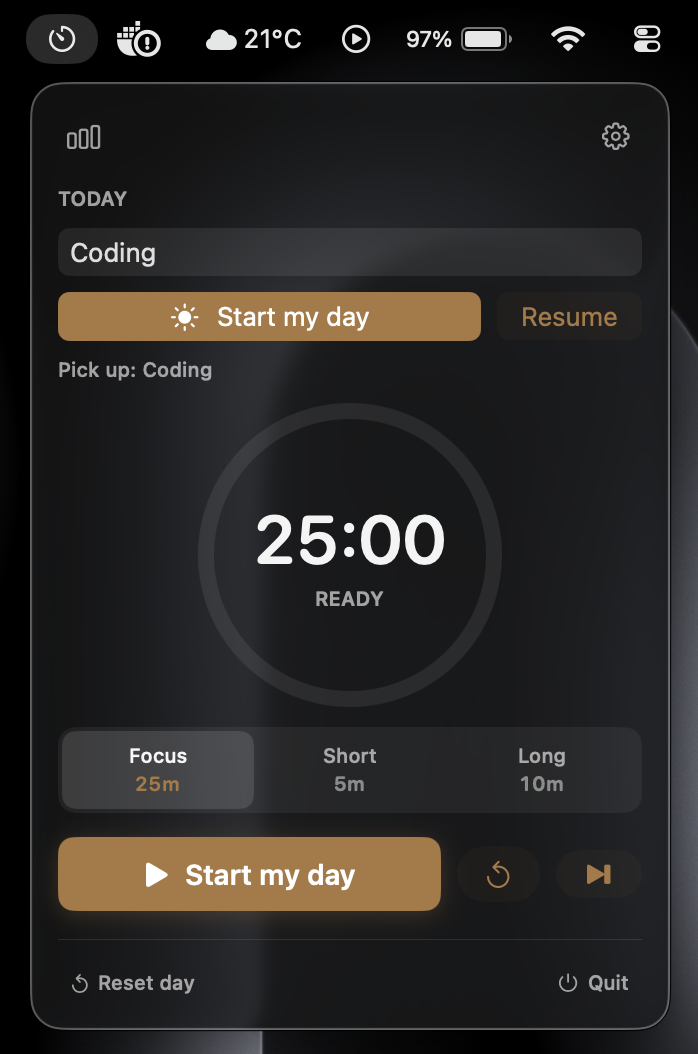
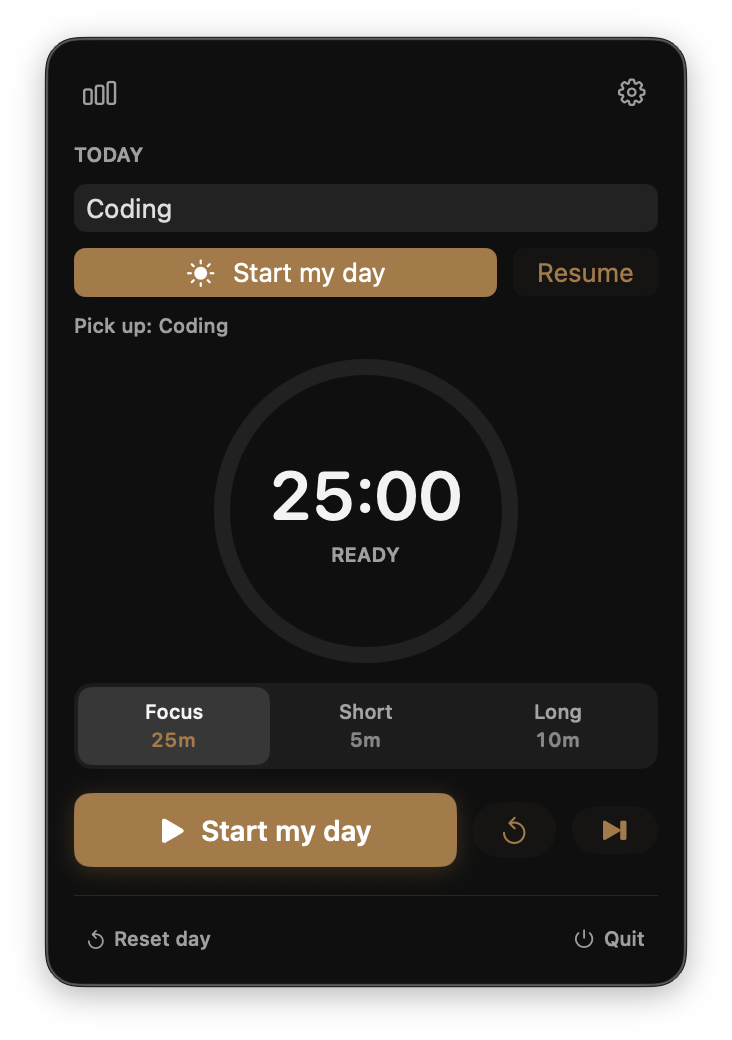
Add stats and settings screenshots, point Install at Releases

diff --git a/README.md b/README.md
@@ -5,7 +5,9 @@ A small Pomodoro app that lives in your Mac menu bar.
 I built Breaks because every other timer either nagged me too much, hid in a Dock icon I never wanted, or treated breaks as an afterthought. This one is the opposite. It's quiet, it remembers what you were focused on, and it actually cares whether the break was any good.
 
 <p align="center">
-  <img src="docs/screenshot-timer.png" alt="Breaks popover open from the menu bar" width="420">
+  <img src="docs/screenshot-timer.png" alt="Timer popover" width="280">
+  <img src="docs/screenshot-stats.png" alt="Streaks and stats" width="280">
+  <img src="docs/screenshot-settings.png" alt="Settings panel" width="280">
 </p>
 
 ![Platform](https://img.shields.io/badge/platform-macOS%2013%2B-blue)
@@ -23,9 +25,17 @@ I built Breaks because every other timer either nagged me too much, hid in a Doc
 - Survives sleep. Close the lid, come back, the timer is still where it should be. It's driven by an `endDate` plus `NSWorkspace` sleep/wake notifications, so it doesn't drift.
 - Sandboxed and small. No analytics, no account, nothing leaves your machine. State lives in `UserDefaults`.
 
-## Install and run
+## Install
 
-There's no release artifact yet, so clone and build:
+Grab the latest build from [Releases](https://github.com/GjinPrelvukaj/Breaks/releases/latest):
+
+1. Download `Breaks-vX.Y-macOS.zip`
+2. Unzip and drag `Breaks.app` into `/Applications`
+3. First launch: right-click the app, then **Open**. The build is ad-hoc signed, not notarized, so Gatekeeper needs the manual override the first time.
+
+Apple Silicon, macOS 13.0 or later.
+
+## Build from source
 
 ```sh
 git clone git@gjinprelvukaj.github.com:GjinPrelvukaj/Breaks.git
@@ -39,7 +49,7 @@ Then Cmd+R in Xcode. Or from the CLI:
 xcodebuild -project Breaks.xcodeproj -scheme Breaks -configuration Debug build
 ```
 
-Requires macOS 13.0 or later and a recent Xcode.
+Requires a recent Xcode.
 
 ## Reset state
 
